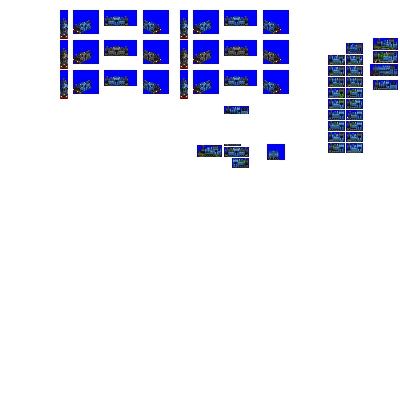
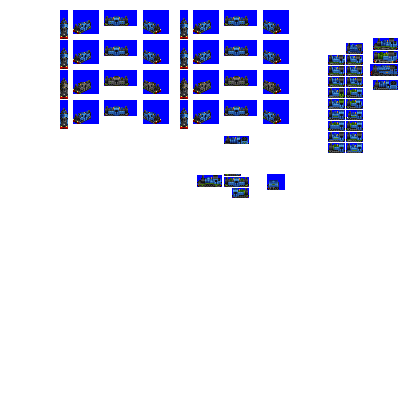
Change: additional livery for Thor

diff --git a/src/vehicles/pony/thor.py b/src/vehicles/pony/thor.py
@@ -19,7 +19,7 @@ def main(**kwargs):
         gen=1,
         intro_year_offset=15,
         random_reverse=True,
-        liveries=["SHOW_PONY", "FREIGHT_BLACK", "INDUSTRIAL_YELLOW"],
+        liveries=["SHOW_PONY", "BANGER_BLUE", "FREIGHT_BLACK", "INDUSTRIAL_YELLOW"],
         sprites_complete=True,
     )
 
